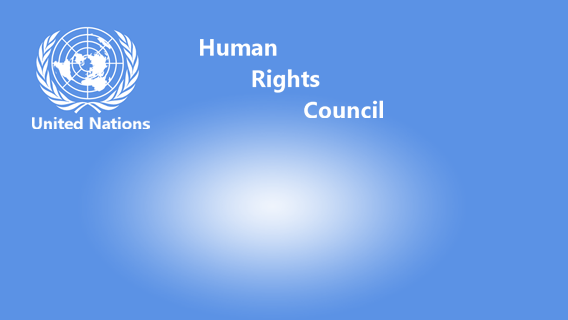
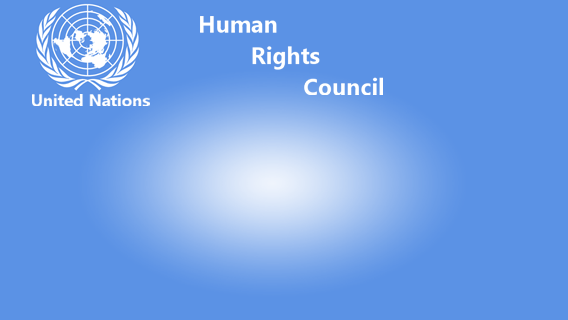
css

Changed region(s): [[0.2993, 0.0625, 0.6884, 0.5625], [0.2993, 0.6562, 0.6585, 0.9375], [0.0599, 0.0, 0.2694, 0.4062]]

diff --git a/style.css b/style.css
@@ -173,9 +173,8 @@ a:hover {color:#1D498B;}  /* mouse over link */
 a:active {color:#1D498B;}  /* selected link */
 
 @media only screen 
-and (min-device-width : 320px) 
-and (max-device-width : 568px) 
-and (orientation : landscape) {
+and (min-width : 320px) 
+and (max-width : 568px)  {
  
 body {
     width: 568px;
@@ -185,5 +184,129 @@ body {
     font-family: "Segoe UI", Frutiger, "Frutiger Linotype", "Dejavu Sans", "Helvetica Neue", Arial, sans-serif;
 }
 
+header {
+    height: 128px;
+}
+
+.hexagon { 
+    width: 94px; 
+    height: 50px; 
+    background-color: #1D498B; 
+    position: relative; 
+} 
+.hexagon:before { 
+    content: ""; 
+    position: absolute; 
+    top: -25px; 
+    left: 0; 
+    width: 0; 
+    height: 0; 
+    border-left: 47px solid transparent; 
+    border-right: 47px solid transparent; 
+    border-bottom: 25px solid #1D498B; 
+} 
+
+.hexagon:after { 
+    content: ""; 
+    position: absolute; 
+    bottom: -25px; 
+    left: 0; 
+    width: 0; 
+    height: 0; 
+    border-left: 47px solid transparent; 
+    border-right: 47px solid transparent; 
+    border-top: 25px solid #1D498B; 
+}
+.program {
+    margin-right:5px;
+    float:left;
+}
+.report {
+    margin-right:5px;
+    float:left;
+}
+.pratical {
+    float: right;
+}
+#buttons_hexa {
+    width: 295px;
+    margin:auto;
+}
+#buttons_hexa_bot {
+    clear: both;
+    width: 195px;
+    margin:auto;
+    padding-top: 30px;
+}
+.webcast {
+    margin-right:5px;
+    float:left;    
+}
+article div a span  {
+    width: 55px;
+    text-align: center;
+    display: block;
+    margin: auto;
+    padding-top: 10px;
+    color: white;
+    text-decoration: none;
+}
+footer {
+    width: 522px;
+    margin: auto;
+    padding-top: 41px;
+}
+.social-media {
+    height: 24px;
+    width: 115px;
+    float: right;
+}
+.link-social {
+    display: block;
+    width: 100%;
+    height: 100%;
+    text-decoration: none;
+}
+.flickr {
+    background-image: url("img/flickr.png");
+    width: 24px;
+    height: 24px;
+    float: right;
+}
+.youtube {
+    background-image: url("img/youtube.png");
+    width: 24px;
+    height: 24px;
+    float: right;
+    margin-right: 5px;
+}
+.twitter {
+    background-image: url("img/twitter.png");
+    width: 24px;
+    height: 24px;
+    float: right;
+    margin-right: 5px;
+}
+.facebook {
+    background-image: url("img/facebook.png");
+    width: 24px;
+    height: 24px;
+    float: left;
+    margin-right: 5px;
+}
+.box-news {
+    border-radius: 10px; 
+    -moz-border-radius: 10px; 
+    -webkit-border-radius: 10px; 
+	overflow: auto;
+    border: 1px solid #FFFFFF;
+    height: 80px;
+    margin-top: 10px;
+}
+.box-news p {
+    color: white;
+    font-size: 13px;
+    padding: 5px;
+}
 
 }
